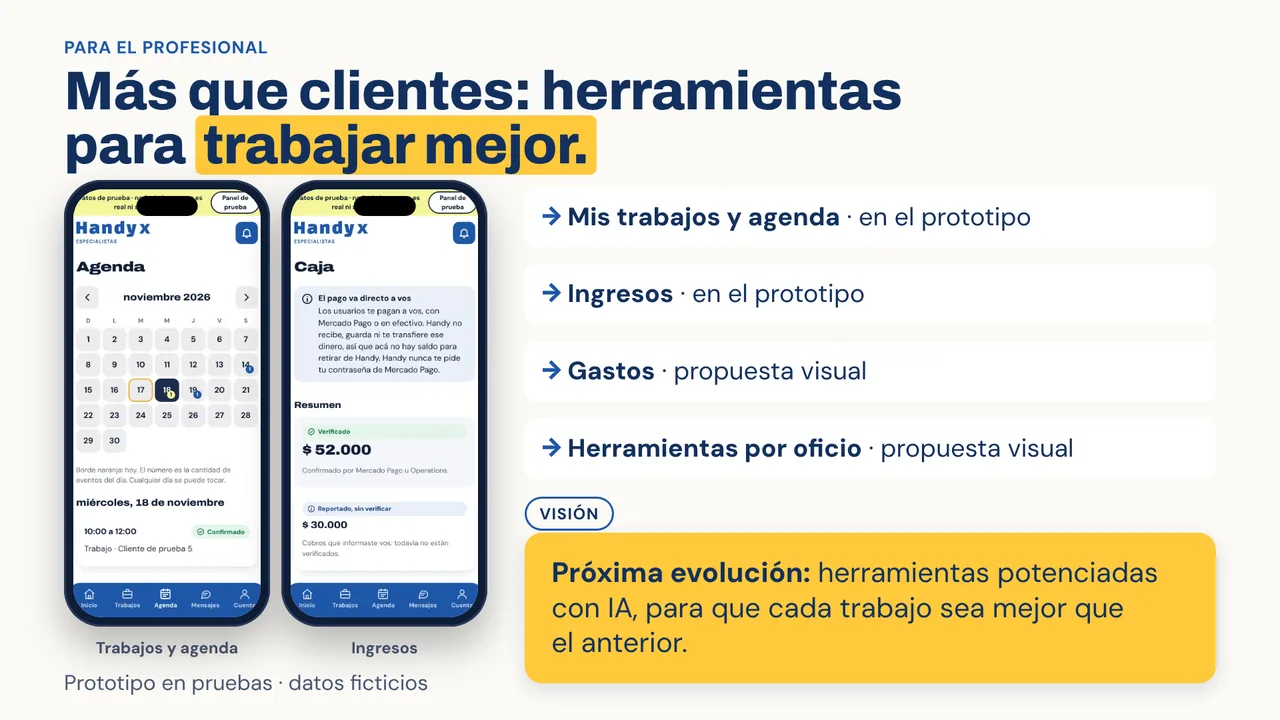
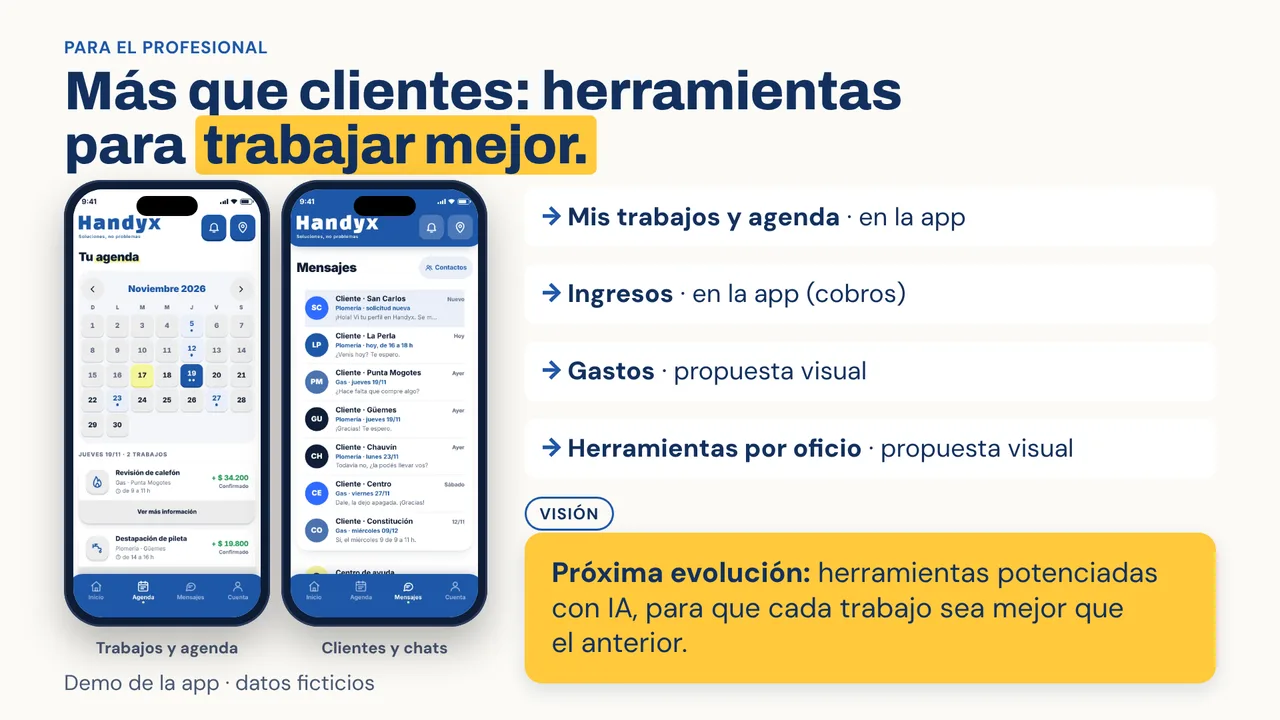
Pitch ATICMA: pantallas de celular de la demo de la landing
- Las diapositivas 2, 3 y 4 usan pantallas de la demo interactiva de la landing (la app todavía se está
  puliendo): HandIA en uso, inicio, describir, agendas, mensajes y pedido nuevo, rotuladas como demo
- Se descartan las pantallas que muestran la tarifa anterior; se quita el concepto dibujado de HandIA
- scripts/landing/ y LEEME para regenerarlas desde Handy-landing-page-fe
- Notas, respuestas, validación, capturas de revisión, PDF y PPTX actualizados

Claude-Session: https://claude.ai/code/session_01QGDMaQ7dcXpVtFC21gPk7N

diff --git a/docs/handyx/aticma-validacion.md b/docs/handyx/aticma-validacion.md
@@ -28,8 +28,8 @@ capturas de revisión: [`capturas-aticma/`](capturas-aticma/).
 | Pregunta | Estado |
 |---|---|
 | ¿El discurso sigue siendo el de Ignacio? | Sí: el guion oficial está literal en las notas, repartido por diapositiva. Ajustes solo sugeridos, en un archivo aparte. |
-| ¿Se muestra el recorrido de usuario y HandIA? | Sí (diapositiva 2): camino HandIA como **concepto rotulado** («Concepto · en desarrollo») y camino directo con capturas reales. |
-| ¿Se muestran las herramientas del profesional? | Sí (3): agenda e ingresos con capturas reales; gastos y herramientas por oficio rotulados como propuesta visual; IA como visión. |
+| ¿Se muestra el recorrido de usuario y HandIA? | Sí (diapositiva 2): HandIA en la demo de la landing (rotulado «Demo · HandIA en desarrollo») y camino directo por oficio. |
+| ¿Se muestran las herramientas del profesional? | Sí (3): agenda y mensajes de la demo; gastos y herramientas por oficio rotulados como propuesta visual; IA como visión. |
 | ¿Competencia sin mentir? | Sí (6 y anexo D): «Sin dato confirmado» donde no hay dato; no se dice que nadie más tenga IA, herramientas o comisión cero. |
 | ¿Tarifa 0 % / 15 % correcta? | Sí: 0 % al profesional, 15 % al usuario visible antes de contratar, ejemplo $ 100.000 → $ 115.000 sin descontar costos. No se mencionan modelos ni promociones anteriores. |
 | ¿Tracción comprobable vs. visión? | Sí: la 4 no muestra cantidades sin conciliar (rótulo «Informado por el fundador · cantidades en conciliación»). |
@@ -58,7 +58,7 @@ capturas de revisión: [`capturas-aticma/`](capturas-aticma/).
 | Clickie | clickie.com.ar/terminos-y-condiciones (14/10/2026) y /como-funciona | Indicado por Ignacio el 04/11; dominio bloqueado aquí: **revalidar** |
 | Muovi | muovi.com.ar/own-boss · App Store id6757713850 | Ídem |
 | Home Solution | homesolution.net · /ar/prestadores/registrar/1 | Ídem |
-| Capturas | Prototipos handyx-client-fe / handyx-specialist-fe en modo de prueba (datos ficticios) | Reales; HandIA desactivada en la app |
+| Pantallas de celular | Demo interactiva de la landing (landing.handyc.com/demo, `Handy-landing-page-fe` @ ac3b245), datos ficticios — pedido de Ignacio del 04/11: la app todavía se está puliendo | Rotuladas «Demo»; se descartaron las que muestran la tarifa anterior. Procedimiento: `brands/handyx/assets/demo-landing/LEEME.md` |
 
 ## Pendientes concretos
 
@@ -66,7 +66,7 @@ capturas de revisión: [`capturas-aticma/`](capturas-aticma/).
 2. **Conciliar** trabajos y comisiones cobradas (informados: 5) y sacar un corte del CRM de registrados (informados: 56) antes de mostrar cifras.
 3. **Revalidar** Clickie, Muovi y Home Solution y la fuente municipal de hogares desde una red con acceso (en esta sesión hay que habilitar
    esos dominios en la configuración de red).
-4. **Circuito de cobro del 15 %** (cómo se recauda y rinde) y su implementación en las apps: hoy las apps muestran el esquema anterior.
+4. **Circuito de cobro del 15 %** (cómo se recauda y rinde) y su implementación en las apps y en la demo de la landing: hoy muestran el esquema anterior (por eso no se usan las pantallas de presupuestos, precio y cobros).
 5. **Asignación de los USD 100.000** e hitos a financiar (anexo E queda «pendiente de aprobar»).
 6. Fechas del primer trimestre comercial y ticket medio real (sin ticket no hay cantidad de trabajos).
 7. Probar el control desde el celular en el lugar (datos móviles) y el proyector real.

diff --git a/brands/handyx/assets/demo-landing/LEEME.md b/brands/handyx/assets/demo-landing/LEEME.md
@@ -1,0 +1,25 @@
+# Pantallas de la demo de la landing (landing.handyc.com/demo)
+
+Capturas de la **demo interactiva** de `Handy-landing-page-fe` (referencia visual de la app, datos ficticios), elegidas
+para el pitch ATICMA porque la app todavía se está puliendo. Se descartan las pantallas que muestran la tarifa anterior
+(presupuestos, precio, caja, trabajo terminado, cuenta con cupones).
+
+Cómo se regeneran (con la landing compilada: `npm ci && npm run build` en `Handy-landing-page-fe`):
+
+```sh
+# pantallas estáticas (414 × 896 a 2x, con barra de estado 9:41)
+node scripts/trailers/exportar-pantallas.ts /tmp/pantallas            # en Handy-landing-page-fe
+node scripts/landing/render-pantallas.mjs /tmp/pantallas/pantallas-demo.js /tmp/salida u-inicio u-describir u-turnos e-turnos e-mensajes e-pedido-programado
+# HandIA en uso (modo app, conversación real de la demo): con `npx vite preview --port 5191` corriendo en la landing
+ALTO=852 node scripts/landing/handia.cjs /tmp/salida   # paso3.png debajo de la barra de estado (88 px a 2x) de u-handia
+```
+
+| Archivo | Pantalla de la demo |
+|---|---|
+| usuario-inicio.webp | `u-inicio` · elegir el oficio, acceso a HandIA |
+| usuario-describir.webp | `u-describir` · contar qué pasó, fotos, pedir presupuestos |
+| usuario-handia.webp | `u-handia` después de «Se tapó la pileta de la cocina» + «Mandar una foto» |
+| usuario-agenda.webp | `u-turnos` · agenda del usuario |
+| especialista-agenda.webp | `e-turnos` · agenda del profesional |
+| especialista-mensajes.webp | `e-mensajes` · clientes y chats |
+| especialista-pedido.webp | `e-pedido-programado` · pedido nuevo, «El precio lo ponés vos» |

diff --git a/docs/handyx/aticma-preguntas.md b/docs/handyx/aticma-preguntas.md
@@ -15,7 +15,7 @@ Versión corta en pantalla: anexo F (Mayús + F y Mayús + G). Ninguna respuesta
    edificios y cobramos comisión. Estamos conciliando cantidades y comprobantes con los registros; preferimos mostrar la cifra cuando esté
    conciliada. Los cobros se coordinaron a mano, no con un flujo automatizado.
 5. **¿HandIA funciona hoy o es una función prevista?** Es prevista, en desarrollo; en la app actual está desactivada. Hoy se puede elegir el
-   oficio, describir el problema con fotos y recibir propuestas. La pantalla de HandIA del pitch es un concepto rotulado.
+   oficio, describir el problema con fotos y recibir propuestas. La pantalla de HandIA del pitch es la demo de la landing (rotulada), no el producto en uso.
 6. **¿Qué tiene Handyx que Clickie, Muovi o Home Solution no puedan copiar?** Las funciones se pueden copiar: Clickie ya describe
    orientación con IA y Muovi anuncia comisión cero temporal. Apostamos a la combinación de presupuesto completo para el profesional,
    herramientas útiles por oficio, confianza e historial con clientes que vuelven a elegirlo. Si se usa todos los días, eso pesa más que una

diff --git a/docs/handoff.md b/docs/handoff.md
@@ -158,3 +158,6 @@ el workflow compila con `SERVIDOR_CONTROL` y verifica que Render responda. Todo-
   tramo), F en el presentador, PDF con una página por paso cuando algo sale de escena, `npm run exportar:pptx`.
 - Docs: `docs/handyx/aticma-{guion,validacion,preguntas,ajustes-sugeridos}.md`, capturas en `docs/handyx/capturas-aticma/`.
 - Verificado: verify, e2e 32/32, capturas 1920 y 1366, PDF 15 p., lectura 17 p., PPTX 15. Pendientes en `aticma-validacion.md`.
+- 04/11 (tarde): pedido de Ignacio — las pantallas de celular salen de la **demo de la landing** (la app todavía se está puliendo):
+  `brands/handyx/assets/demo-landing/` (HandIA en uso, inicio, describir, agendas, mensajes, pedido nuevo) + `scripts/landing/`. Se descartan
+  las pantallas con la tarifa anterior. Se quitó el concepto dibujado de HandIA.
